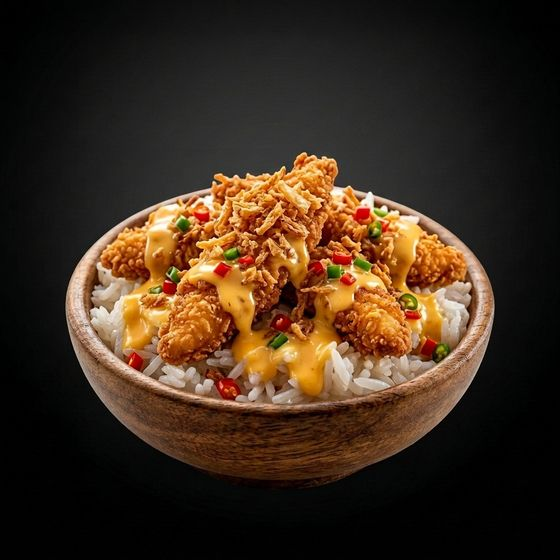
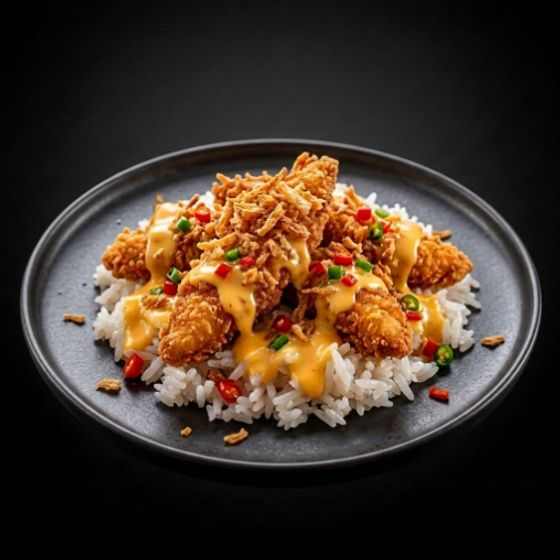
Nouvelle photo Riz Crousty + retire l'App ID OneSignal d'O Supreme laisse en valeur par defaut

Changed region(s): [[0.0304, 0.2429, 0.9714, 0.8804]]

diff --git a/server.js b/server.js
@@ -22,10 +22,11 @@ const PUBLIC_URL = process.env.PUBLIC_URL || `http://localhost:${PORT}`;
 const stripe = new Stripe(process.env.STRIPE_SECRET_KEY || 'sk_test_dummy');
 
 // ─── OneSignal (notifications push) ───────────────────────
-const ONESIGNAL_APP_ID = process.env.ONESIGNAL_APP_ID || 'faf2ece8-01f9-431d-97f0-e91e039baad8';
+// Renseigner ONESIGNAL_APP_ID + ONESIGNAL_REST_API_KEY (vars d'env Render) pour activer.
+const ONESIGNAL_APP_ID = process.env.ONESIGNAL_APP_ID || '';
 const ONESIGNAL_REST_KEY = process.env.ONESIGNAL_REST_API_KEY || '';
 async function sendPush(phone, title, message) {
-  if (!ONESIGNAL_REST_KEY || !phone) return;
+  if (!ONESIGNAL_APP_ID || !ONESIGNAL_REST_KEY || !phone) return;
   try {
     const res = await fetch('https://onesignal.com/api/v1/notifications', {
       method: 'POST',
